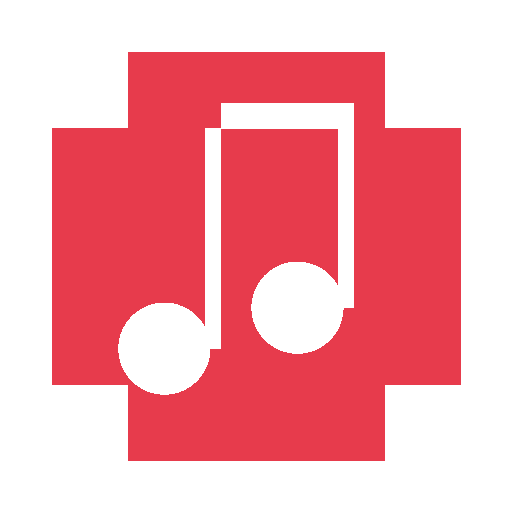
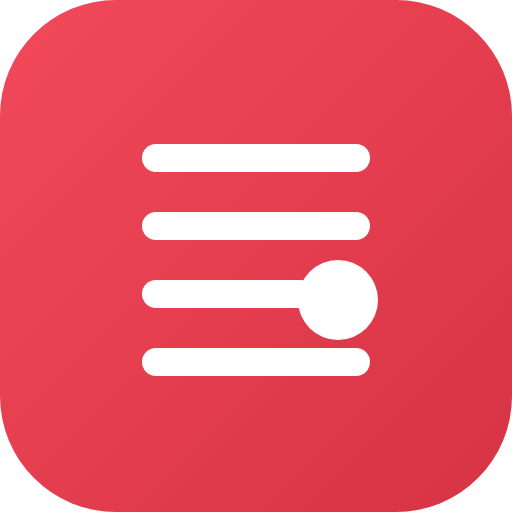
feat: brand identity — consolidate on "Estante" with a custom mark
Unify the split identity (UI said "Estante", manifest said the generic
"Partitura") under one brand.

- Custom brand mark (staff lines + note head) as BrandMark.jsx, reused in
  the Landing hero and Library header
- Regenerated favicon.svg, icon-192/512 (full-bleed tile) and a branded
  og-image from the mark
- PWA manifest name "Estante — Leitor de Partituras" / short_name "Estante"
  and apple-mobile-web-app-title "Estante" so home-screen installs are
  branded (fixes the generic "Partitura" install name)

See ADR 018.

Claude-Session: https://claude.ai/code/session_013A8f17pzqbzGykj5LuhzWm

diff --git a/src/components/BrandMark.jsx b/src/components/BrandMark.jsx
@@ -1,0 +1,16 @@
+// The Estante brand mark: abstract staff lines + a note head, evoking a shelf
+// of sheet music. Rendered white by default to sit inside the red logo tile.
+// See docs/adr/018-brand-identity.md.
+export default function BrandMark({ size = 24, color = '#fff' }) {
+  return (
+    <svg width={size} height={size} viewBox="0 0 24 24" aria-hidden="true">
+      <g stroke={color} strokeWidth="1.6" strokeLinecap="round">
+        <line x1="6" y1="7.5" x2="17" y2="7.5" />
+        <line x1="6" y1="11" x2="17" y2="11" />
+        <line x1="6" y1="14.5" x2="13.3" y2="14.5" />
+        <line x1="6" y1="18" x2="17" y2="18" />
+      </g>
+      <circle cx="15.2" cy="14.5" r="2" fill={color} />
+    </svg>
+  )
+}

diff --git a/vite.config.js b/vite.config.js
@@ -9,9 +9,9 @@ export default defineConfig({
     VitePWA({
       registerType: 'autoUpdate',
       manifest: {
-        name: 'Partitura',
-        short_name: 'Partitura',
-        description: 'Leitor de partituras web, gratuito e offline',
+        name: 'Estante — Leitor de Partituras',
+        short_name: 'Estante',
+        description: 'Sua estante de partituras no tablet: leia, anote e ensaie. Offline e sem cadastro.',
         theme_color: '#0D111C',
         background_color: '#0D111C',
         display: 'standalone',

diff --git a/src/screens/Landing.jsx b/src/screens/Landing.jsx
@@ -1,4 +1,5 @@
 import { useI18n } from '../lib/i18n'
+import BrandMark from '../components/BrandMark'
 import s from './Landing.module.css'
 
 const FEATURES = [
@@ -42,7 +43,7 @@ export default function Landing({ onEnter }) {
       <div className={s.hero}>
         <div className={s.heroContent}>
           <div className={s.logoMark}>
-            <svg width="40" height="40" viewBox="0 0 24 24" fill="#fff"><path d="M21,3V15.5A3.5,3.5 0 0,1 17.5,19A3.5,3.5 0 0,1 14,15.5A3.5,3.5 0 0,1 17.5,12C18.04,12 18.55,12.12 19,12.34V6.47L9,8.6V17.5A3.5,3.5 0 0,1 5.5,21A3.5,3.5 0 0,1 2,17.5A3.5,3.5 0 0,1 5.5,14C6.04,14 6.55,14.12 7,14.34V6L21,3Z" /></svg>
+            <BrandMark size={40} />
           </div>
           <h1 className={s.title}>{t('landing.title')}</h1>
           <p className={s.subtitle}>{t('landing.subtitle')}</p>

diff --git a/src/screens/Library.jsx b/src/screens/Library.jsx
@@ -9,6 +9,7 @@ import {
 import { useI18n } from '../lib/i18n'
 import { useToast, useConfirm } from '../lib/ui'
 import { useDragReorder } from '../hooks/useDragReorder'
+import BrandMark from '../components/BrandMark'
 import Modal from '../components/Modal'
 import Onboarding from '../components/Onboarding'
 import s from './Library.module.css'
@@ -355,7 +356,7 @@ export default function Library({
         </button>
         <div className={s.brand}>
           <div className={s.logo}>
-            <svg width="22" height="22" viewBox="0 0 24 24" fill="#fff"><path d="M21,3V15.5A3.5,3.5 0 0,1 17.5,19A3.5,3.5 0 0,1 14,15.5A3.5,3.5 0 0,1 17.5,12C18.04,12 18.55,12.12 19,12.34V6.47L9,8.6V17.5A3.5,3.5 0 0,1 5.5,21A3.5,3.5 0 0,1 2,17.5A3.5,3.5 0 0,1 5.5,14C6.04,14 6.55,14.12 7,14.34V6L21,3Z" /></svg>
+            <BrandMark size={22} />
           </div>
           <div>
             <div className={s.brandTitle}>{t('library.title')}</div>

diff --git a/index.html b/index.html
@@ -6,6 +6,7 @@
   <meta name="theme-color" content="#0D111C">
   <meta name="description" content="Leitor de partituras web, gratuito e offline. Alternativa web a forScore e MobileSheets. Metrônomo, anotações, gestos e gravação.">
   <meta name="apple-mobile-web-app-capable" content="yes">
+  <meta name="apple-mobile-web-app-title" content="Estante">
   <meta name="apple-mobile-web-app-status-bar-style" content="black-translucent">
   <!-- Open Graph -->
   <meta property="og:type" content="website">

diff --git a/docs/adr/018-brand-identity.md b/docs/adr/018-brand-identity.md
@@ -1,0 +1,40 @@
+# ADR 018: Brand identity — "Estante"
+
+## Status
+Accepted
+
+## Context
+The app shipped with a split identity: the UI, page title and Open Graph tags
+already said **"Estante"**, but the PWA manifest used the generic name
+**"Partitura"**. So installing to the home screen produced a generic-looking
+"Partitura" icon/label, and there was no distinctive logo mark (the icon was a
+stock music-note glyph). The product needed one coherent brand.
+
+## Decision
+Consolidate on **"Estante"** as the product name (Portuguese for a music
+stand / bookshelf — it matches the metaphor of a shelf of sheet music and was
+already used throughout the UI). No invented name; we strengthen the existing one.
+
+**Brand mark.** A custom glyph: abstract **staff lines + a note head**, evoking a
+shelf of sheet music. White on a rounded-square tile with a red gradient
+(#F2495A → #D63344, around the existing accent #E73B4C). Implemented once as
+`src/components/BrandMark.jsx` and reused in the Landing hero and Library header.
+
+**Color.** Brand red `#E73B4C` (unchanged accent), on the dark ground `#0D111C`.
+
+**Assets regenerated** from the mark: `favicon.svg`, `icon-192.png`,
+`icon-512.png` (full-bleed tile, content within the maskable safe zone) and a
+branded `og-image.png` (mark + wordmark + tagline).
+
+**Install name.** Manifest `name` = "Estante — Leitor de Partituras",
+`short_name` = "Estante"; plus `<meta name="apple-mobile-web-app-title"
+content="Estante">` so iOS home-screen installs read "Estante" instead of the
+long title or the old generic name.
+
+## Consequences
+- Installing the PWA now shows the "Estante" name and the custom mark.
+- One source of truth for the logo (`BrandMark`), consistent across screens.
+- The repository name and base path (`/leitor-partitura/`) are unchanged — brand
+  name and repo slug are intentionally decoupled.
+- Icons are generated via a Playwright script from the SVG; if the mark changes,
+  re-run it to refresh the PNGs (documented in the PR).